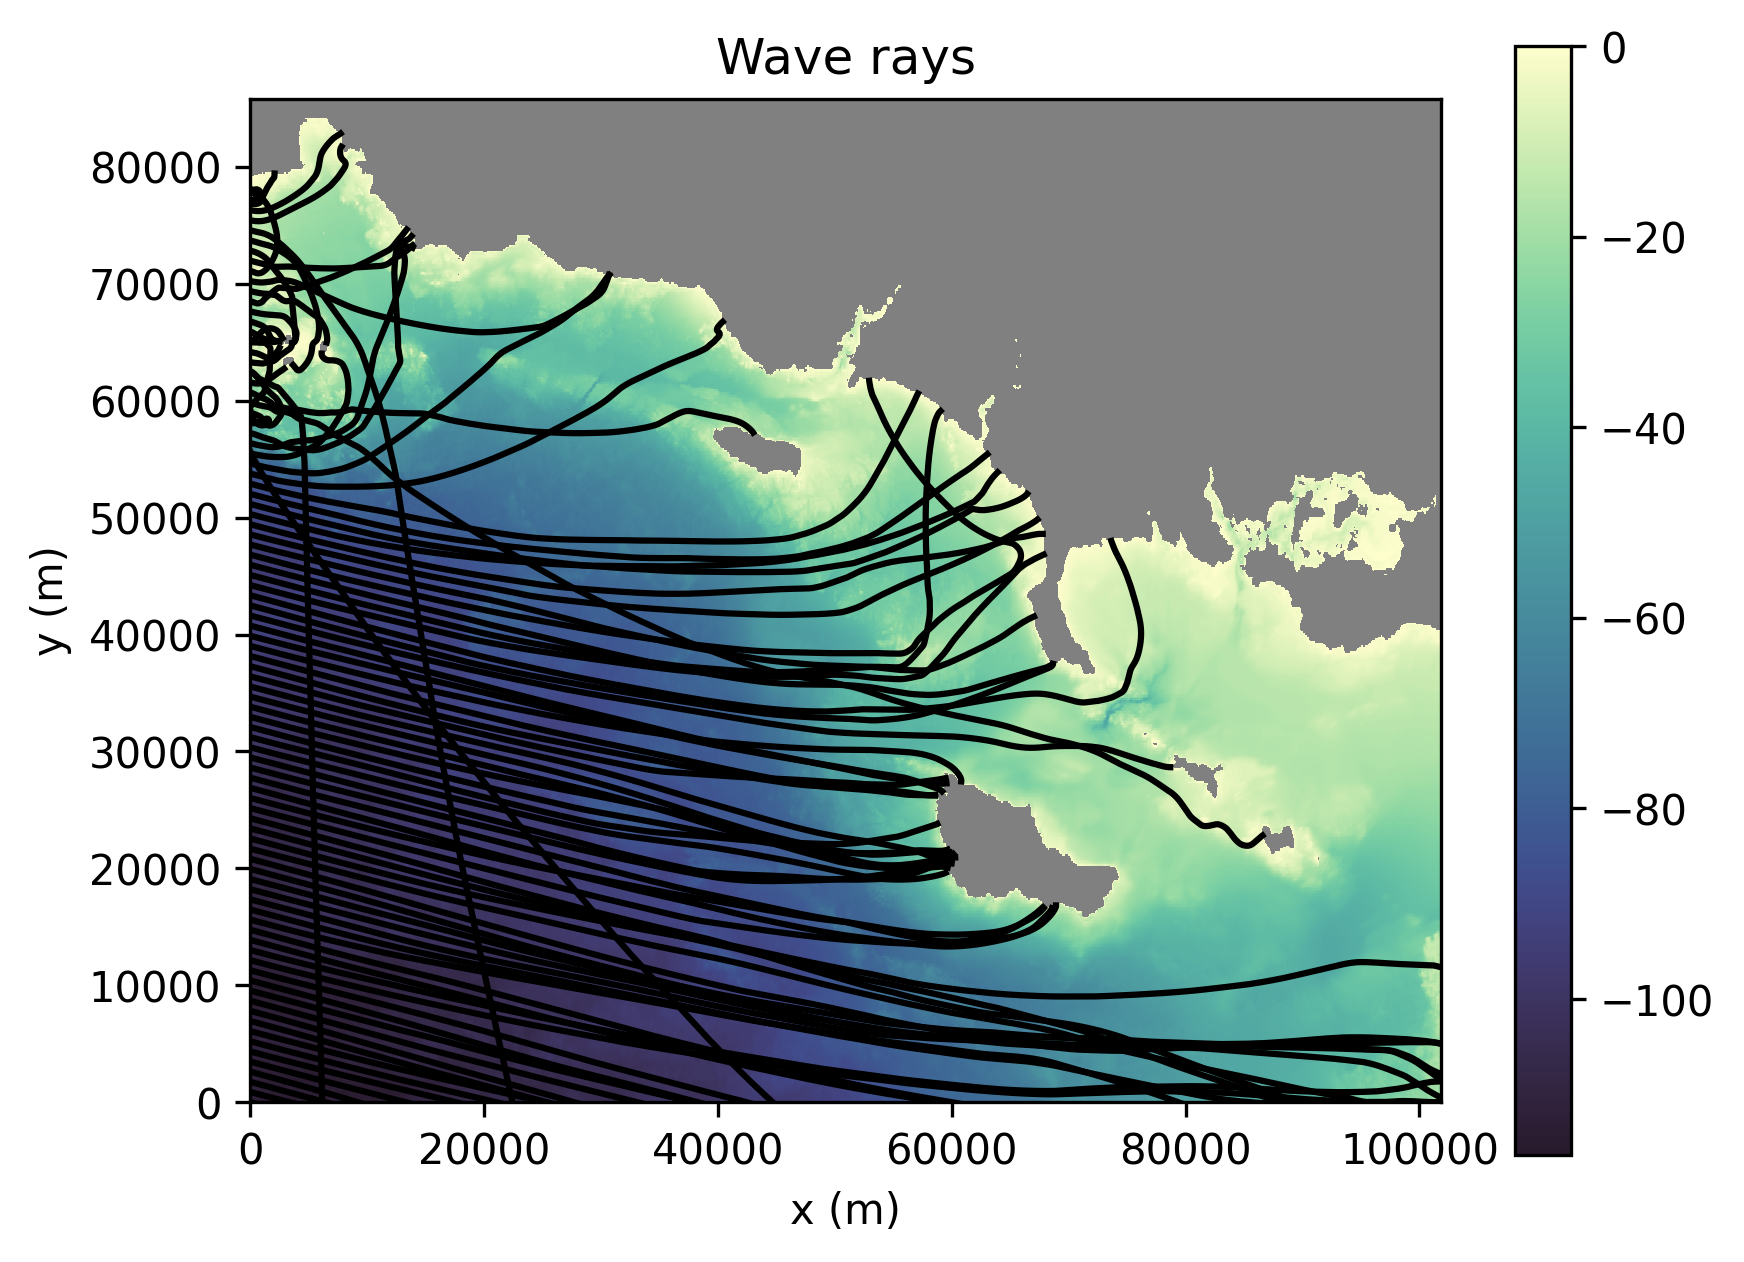
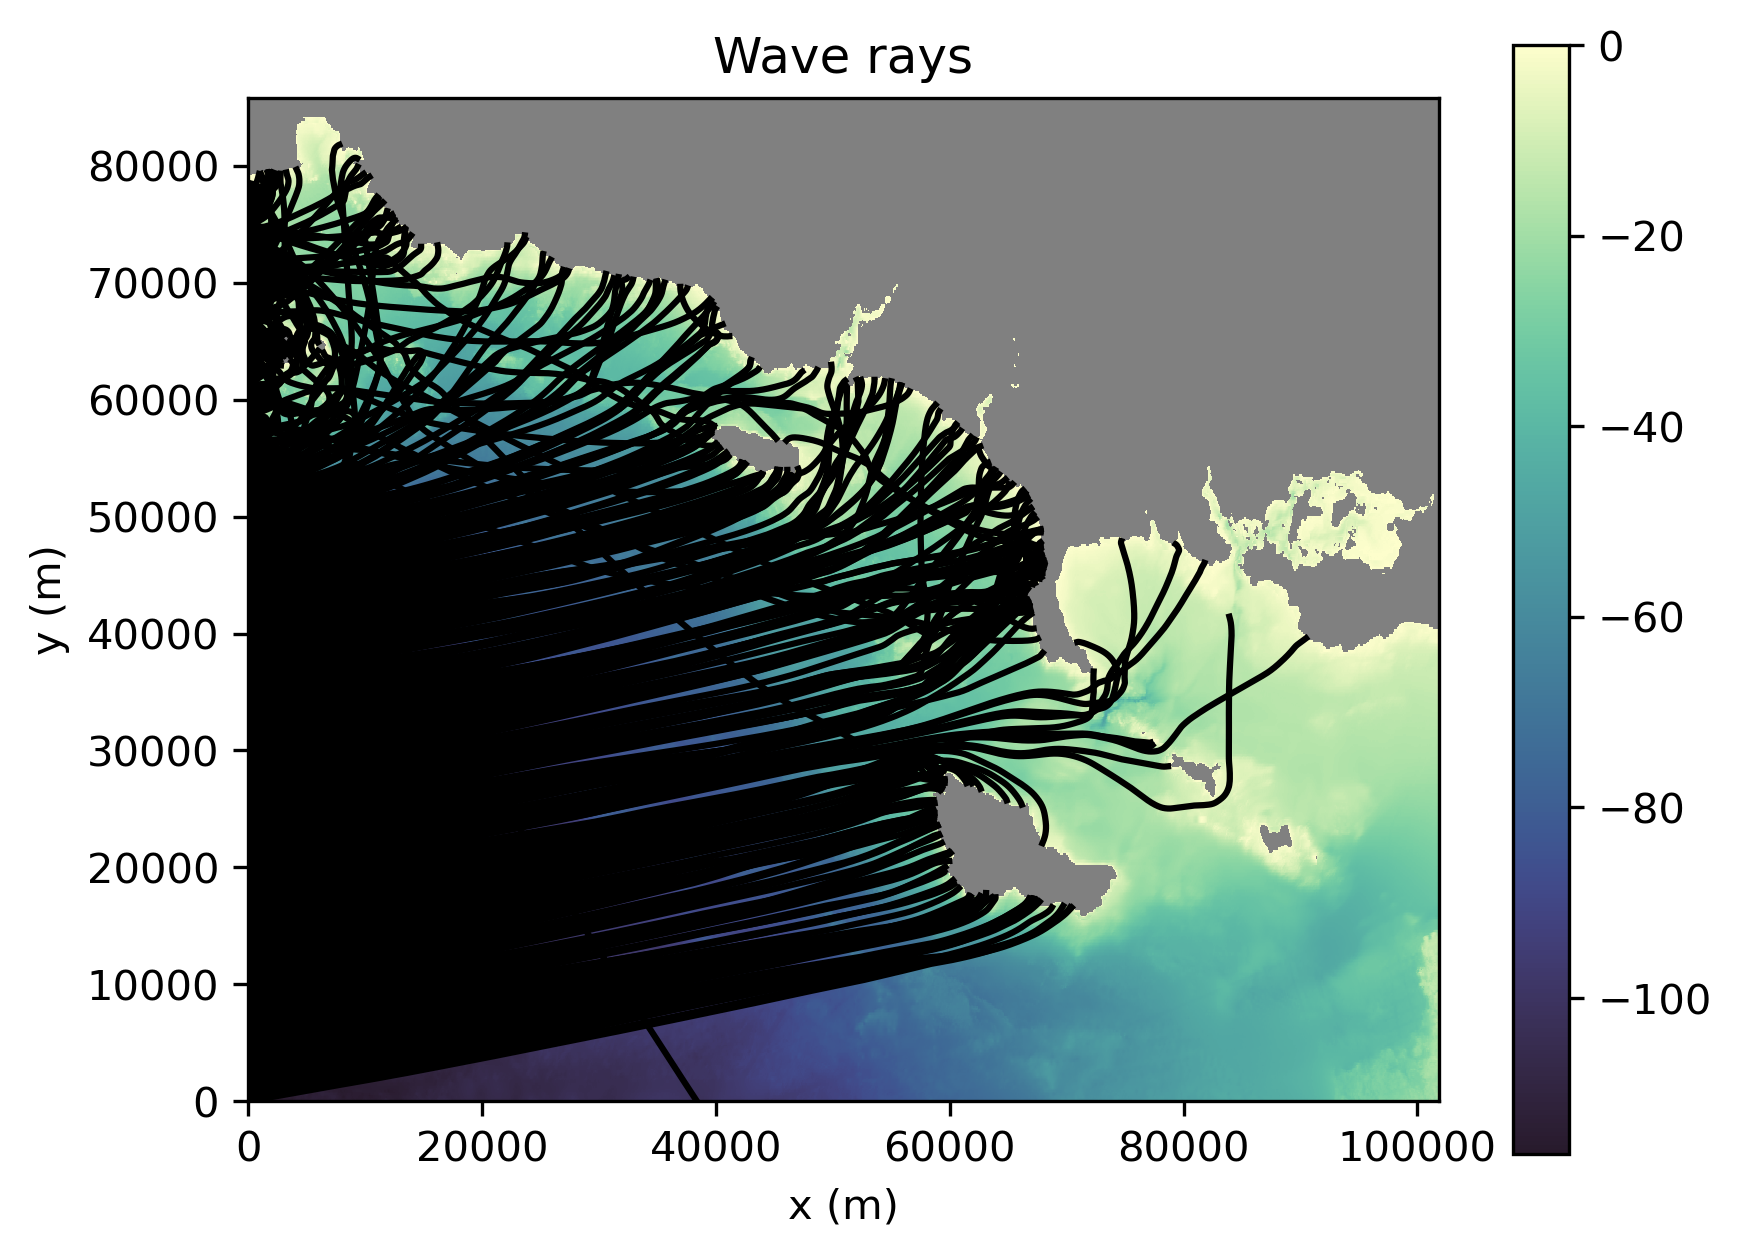
added the code to the jupyter for 1 year and 50 year period, adapted waveperiod and dir to the respective values

diff --git a/Part_2_Ray_Tracing/demo_CA.py b/Part_2_Ray_Tracing/demo_CA.py
@@ -10,7 +10,7 @@ ang   = 105 # wave direction (deg)
 nr_case1    = 100  # number of wave rays for Case 1(less rays so its easier to see the main direction of the rays)
 nr_case2    = 1000  # number of wave rays for Case 2(more rays so the energy flux resolution is better)
 simtime = 3600*2.5 # propagate 2.5 hour
-nt    = 5000 # number of time steps
+nt    = 5000 # number of time steps, try to increase to limit edge cases
 fname = Path(__file__).resolve().parent / 'GMRTv4_4_0_20251107topo.asc' # bathymetry file
 fig_dir = Path(__file__).resolve().parent / "figures"
 fig_dir.mkdir(parents=True, exist_ok=True)
@@ -104,11 +104,14 @@ elif np.mod(ang,360)<225 and np.mod(ang,360)>=135:
     escale = e[round(nrows/2),-1]
 else:
     escale = e[-1,round(ncols/2)]
+
+# limit the cmap maxvalue to 98th percentile
+e_max = np.percentile(e[~np.isnan(e)], 98)
 fig, ax = plt.subplots()
 ax.set_aspect('equal')
 cmap = plt.cm.get_cmap("jet")
 cmap.set_bad(color='gray')
-pc = ax.pcolormesh(wt_case2.x,wt_case2.y,e/escale,shading='auto',cmap=cmap)
+pc = ax.pcolormesh(wt_case2.x,wt_case2.y,e/escale,shading='auto',cmap=cmap, vmax=e_max)
 fig.colorbar(pc)
 ax.set_xlim((0,dx*(ncols-1)))
 ax.set_ylim((0,dy*(nrows-1)))
@@ -118,3 +121,6 @@ plt.ylabel('y (m)')
 plt.title('Relative wave energy flux density')
 fig.savefig(fig_dir / "relative_wave_energy_flux_density.png", dpi=300, bbox_inches='tight')
 plt.show()
+
+
+# try to integrate a max lim for the density so it shows a more differentiated result
